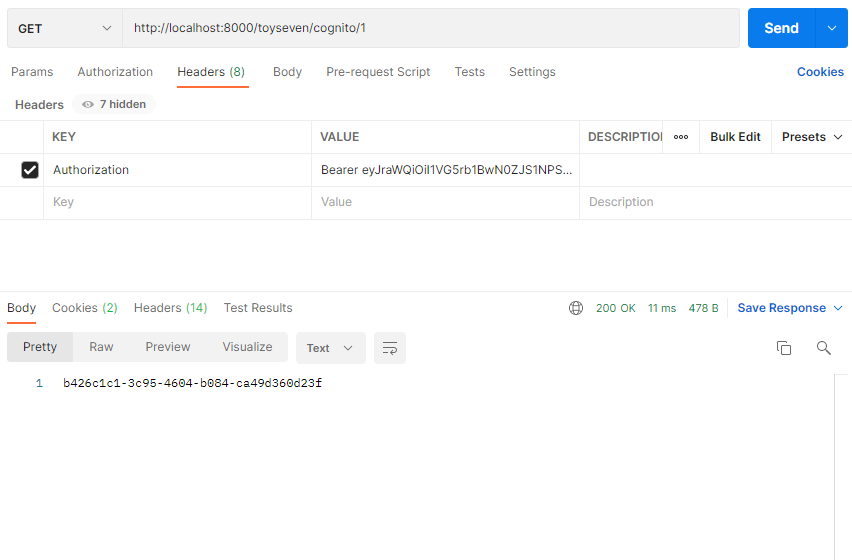
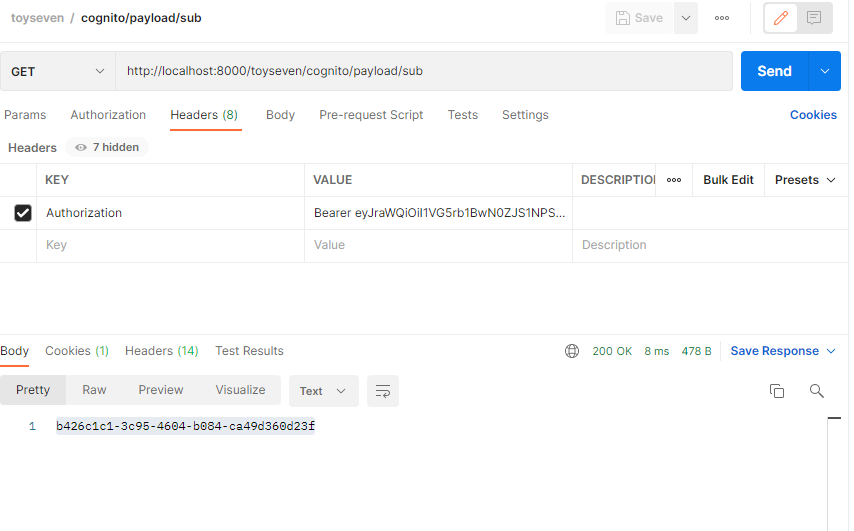
style: Update description

diff --git a/_posts/springboot/2022-05-31-Springboot-01-Cognito.md b/_posts/springboot/2022-05-31-Springboot-01-Cognito.md
@@ -56,7 +56,7 @@ public class JwtRequestFilter extends OncePerRequestFilter {
   private static final List<String> EXCLUDE_URL =
           Collections.unmodifiableList(
                   Arrays.asList(
-                      "/cognito/1"
+                      "/cognito/payload/sub"
                   ));
 
   // EXCLUDE_URL 에 명시 된 엔드포인트에서는 doFilterInternal 가 작동하지 않도록 한다.
@@ -189,7 +189,7 @@ spring:
           issuer-uri: https://toyseven-domain.auth.ap-northeast-2.amazoncognito.com/ap-northeast-2_xxxxxxxxx
           jwk-set-uri: https://cognito-idp.ap-northeast-2.amazonaws.com/ap-northeast-2_xxxxxxxxx/.well-known/jwks.json
         opaquetoken:
-          client-id: ap-northeast-2_xxxxxxxxx
+          client-id: xxxxxxxxxxxxxxxxxx
 ```
 
 <br>
@@ -202,7 +202,7 @@ spring:
 @RequestMapping("cognito")
 public class CognitoController {
 
-  @GetMapping("/1")
+  @GetMapping("/payload/sub")
   public ResponseEntity<String> message(Principal principal) {
 	  return new ResponseEntity<>(principal.getName(), HttpStatus.OK);
   }
